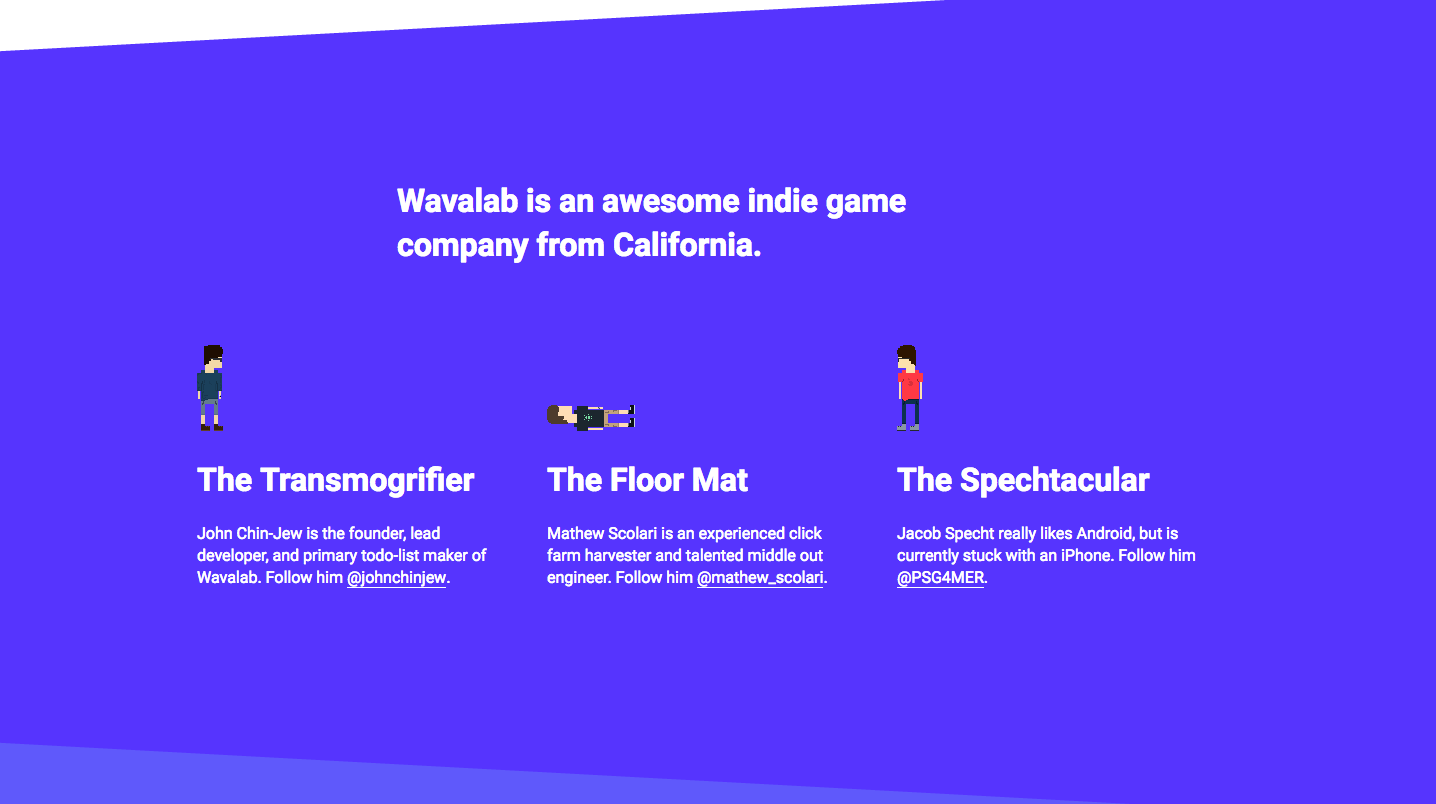
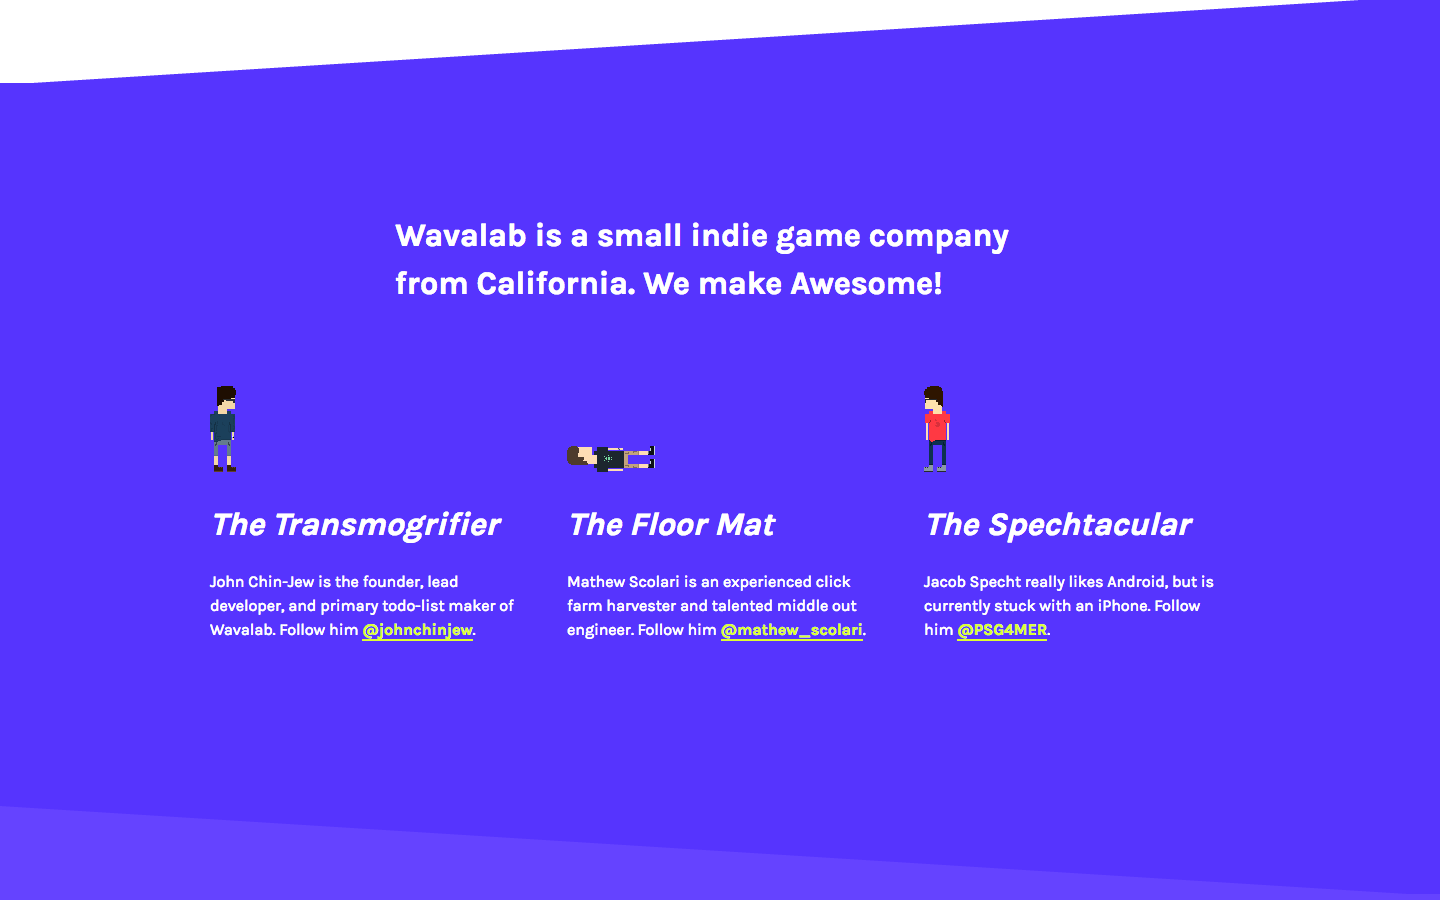
Moar links!
Slightly improved UI,
Twitter widget,
Updated header image

diff --git a/index.html b/index.html
@@ -8,7 +8,7 @@
     <meta name='viewport' content='width=device-width, initial-scale=1'>
     <meta name='theme-color' content='#5634fe'>
     <link rel='stylesheet' href='https://cdnjs.cloudflare.com/ajax/libs/normalize/4.1.1/normalize.min.css'>
-    <link rel='stylesheet' href='css/css.css'>
+    <link rel='stylesheet' href='css/style.css'>
     <link rel="icon" href="img/favicon.png">
     <meta itemprop="name" content="Wavalab">
     <meta itemprop="description" content="An awesome indie game company from California.">
@@ -53,12 +53,15 @@
     </section>
     <section class="calltoaction">
       <div class="width-wrapper">
-        <h1>Join Wavalab on Twitter so you don't miss the release of our first app!</h1>
-        <a class="btn" href="http://twitter.com/Wavalab">Follow @Wavalab</a>
+        <h1>Join Wavalab online so you don't miss the release of our first app!</h1>
+        <a class="twitter-timeline" href="https://twitter.com/Wavalab" data-height="270"></a><script async src="http://platform.twitter.com/widgets.js"></script>
+        <a class="btn" href="http://twitter.com/Wavalab">Follow @Wavalab on Twitter!<span style="float:right">+</span></a>
+        <a class="btn" href="http://instagram.com/Wavalab">We're also on Instagram!<span style="float:right">+</span></a>
       </div>
     </section>
     <footer class="foot">
       © 2014 - <script>new Date().getFullYear()>2010&&document.write(new Date().getFullYear())</script> Wavalab
+      <br>Contact: <a href="mailto:hi@wavalab.com">hi@wavalab.com</a>
     </footer>
     <script src='https://ajax.googleapis.com/ajax/libs/webfont/1/webfont.js'></script>
     <script async src='https://google-analytics.com/analytics.js'></script>

diff --git a/css/style.css b/css/style.css
@@ -32,7 +32,7 @@ a:hover { color: #FF3377 }
   display: block;
   height: 10vh;
   position: absolute;
-  top: -9.8vh;
+  top: -9.85vh;
   left: 0;
 	width: 0;
 	height: 0;
@@ -45,7 +45,7 @@ a:hover { color: #FF3377 }
   display: block;
   height: 10vh;
   position: absolute;
-  top: -9.8vh;
+  top: -9.85vh;
   left: 0;
 	width: 0;
 	height: 0;
@@ -87,7 +87,7 @@ a:hover { color: #FF3377 }
   padding-bottom: 26vh
 }
 .btn {
-  display: inline-block;
+  display: block;
   margin-top: 2rem;
   background: #fff;
   color: #5634fe;
@@ -107,6 +107,11 @@ a:hover { color: #FF3377 }
   text-transform: uppercase;
   letter-spacing: .15em
 }
+.foot > a {
+  color: inherit;
+  font-weight: normal;
+}
+.foot > a:hover { color: #FF3377 }
 @media screen and (max-width: 750px) {
   html { font-size: 85% }
   .persons { display: block }
